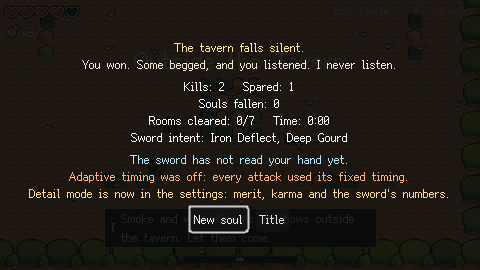
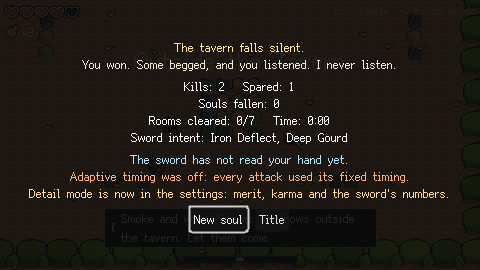
Summary screen: wrap every line at 440 px so long lines fit in any language
Fixes the Dutch win summary's Detail-mode line running off the screen. Summary screens
regenerated in en/nl/zh_CN.

Claude-Session: https://claude.ai/code/session_01AfcAfqa33AD2jS3FNB8M79

Changed region(s): [[0.1562, 0.6222, 0.8438, 0.6815]]

diff --git a/game/scripts/Ui/SummaryScreen.cs b/game/scripts/Ui/SummaryScreen.cs
@@ -131,6 +131,9 @@ public partial class SummaryScreen : CanvasLayer
         return s;
     }
 
+    /// <summary>Every line wraps at this width, so long lines in any language stay on the 480 px screen (layout, not tuning).</summary>
+    private const float LineWidthPx = 440;
+
     private Label Add(Container parent, string text, Color? color = null)
     {
         var l = new Label
@@ -139,6 +142,8 @@ public partial class SummaryScreen : CanvasLayer
             AutoTranslateMode = Node.AutoTranslateModeEnum.Disabled,
             HorizontalAlignment = HorizontalAlignment.Center,
             Modulate = color ?? Colors.White,
+            AutowrapMode = TextServer.AutowrapMode.WordSmart,
+            CustomMinimumSize = new Vector2(LineWidthPx, 0),
         };
         parent.AddChild(l);
         Lines.Add(text);

diff --git a/PROGRESS.md b/PROGRESS.md
@@ -48,9 +48,8 @@ tag). Unit tests: 179 pass (Combat 141, Director 35, Localization 3). Scenarios:
   `screens_all.sh` now also captures `food_<locale>.png` and `flash_step_<locale>.png` from the
   `food_drop` and `flash_step` scenarios. The rooms in the shots and GIFs are the new seed-7
   layouts.
-- Older bug, still there: in Dutch, the win summary's last line ("Detailmodus staat nu in de
-  instellingen: ...") runs off the right edge (`summary_win_nl.png`). Shorten the nl text of
-  `summary.detail_unlocked` or let the line wrap.
+- Fixed: the Dutch win summary's last line ran off the right edge. Every summary line now
+  wraps at 440 px, so long lines fit in any language (`summary_*` screens regenerated).
 - Gamepad RT for flash step is mapped as a trigger axis; I could not test a real pad here.
 
 ### Playtest checklist
